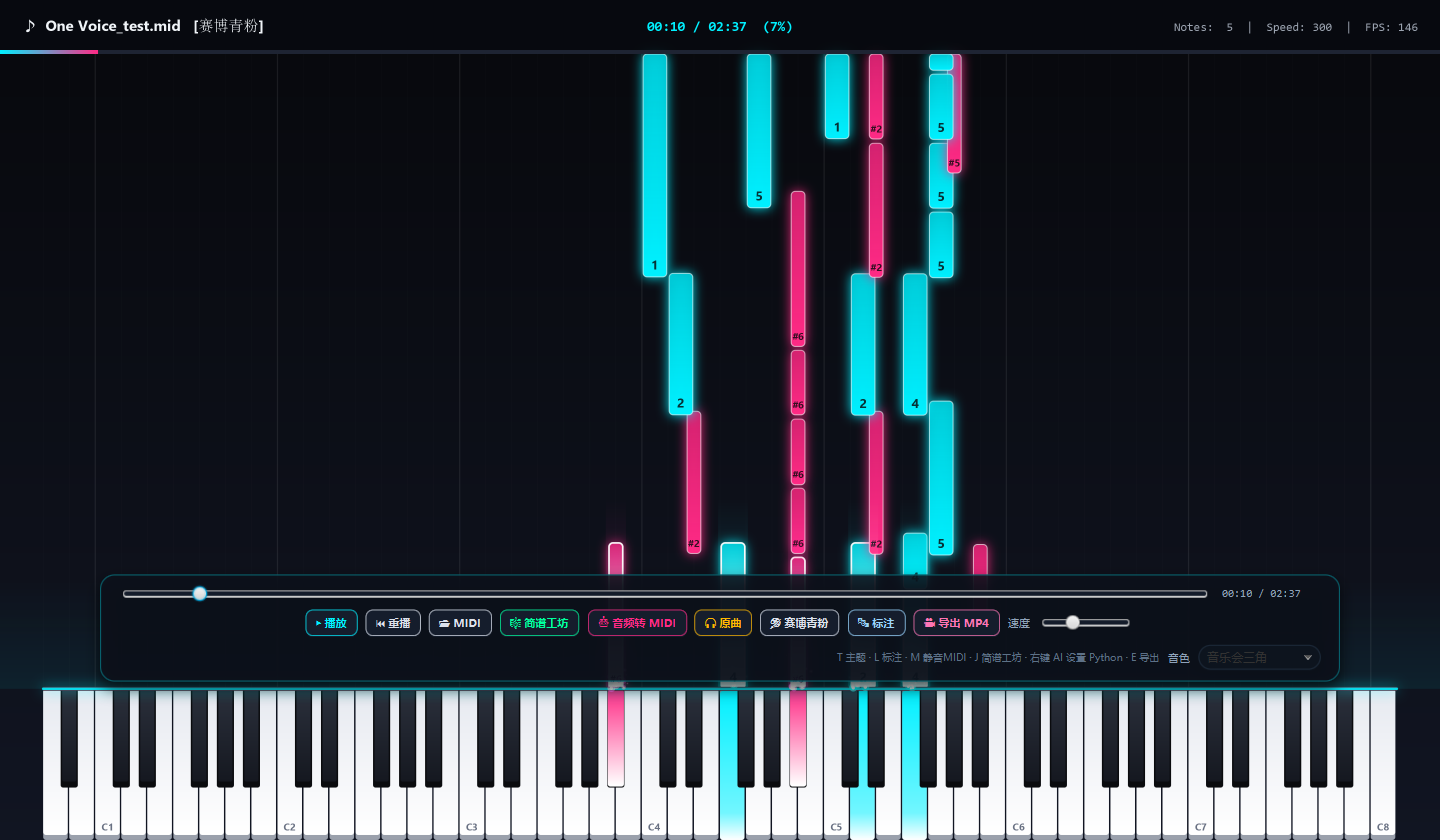
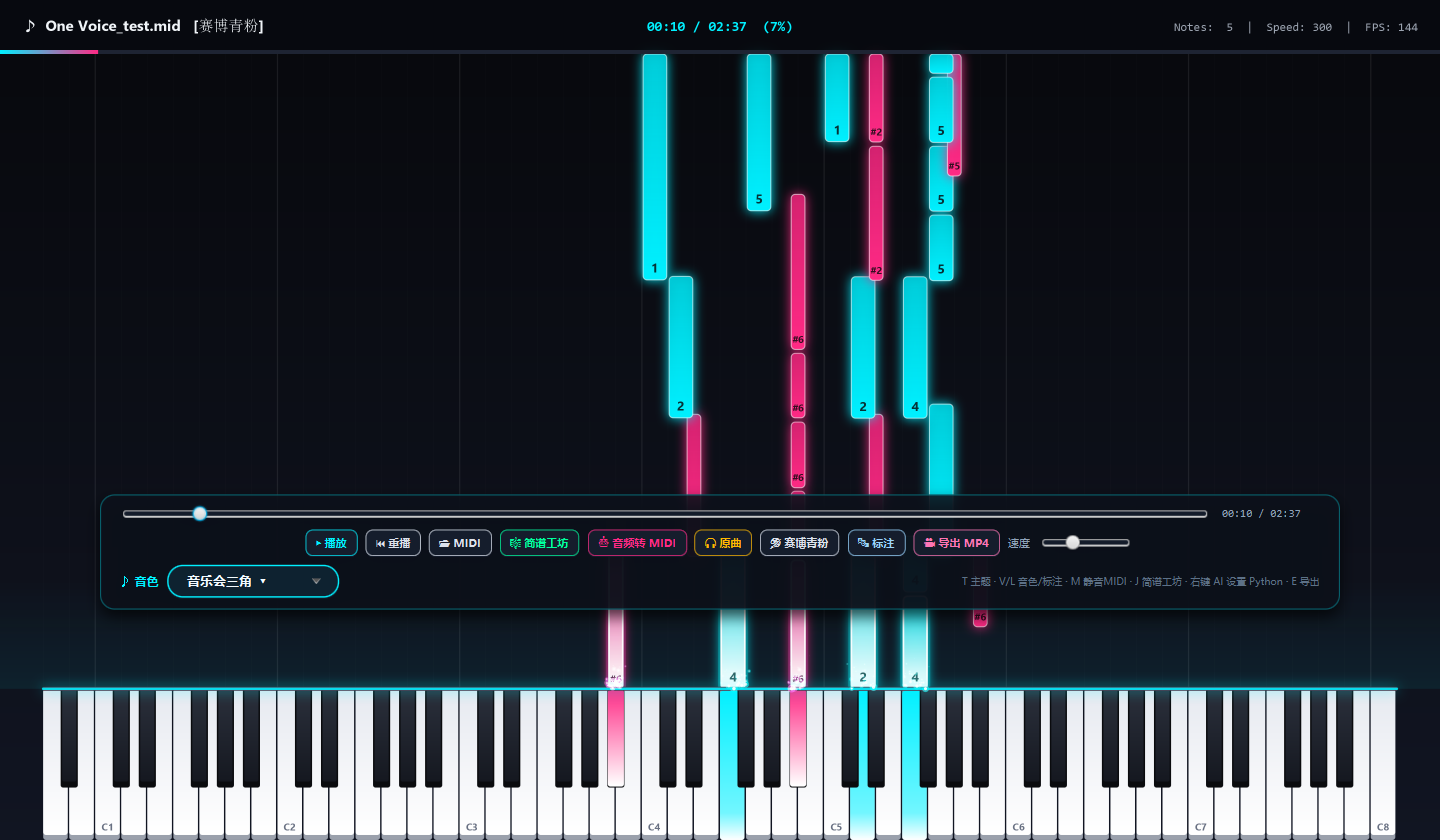
fix: distinguish sampled voices, dark voice popup and clearer selector (1.3.1)

diff --git a/src/main/resources/voice.css b/src/main/resources/voice.css
@@ -1,0 +1,20 @@
+.combo-box-popup .list-view {
+    -fx-background-color: #0B1622;
+    -fx-border-color: #00F0FF;
+    -fx-border-width: 1;
+    -fx-background-radius: 8;
+    -fx-padding: 4;
+}
+
+.combo-box-popup .list-cell {
+    -fx-background-color: #0B1622;
+    -fx-text-fill: #F2FBFF;
+    -fx-font-size: 13px;
+    -fx-padding: 8 14 8 14;
+}
+
+.combo-box-popup .list-cell:hover,
+.combo-box-popup .list-cell:filled:selected {
+    -fx-background-color: #12384C;
+    -fx-text-fill: #FFFFFF;
+}

diff --git a/src/main/java/com/piano/waterfall/App.java b/src/main/java/com/piano/waterfall/App.java
@@ -28,6 +28,8 @@ import javafx.scene.control.ButtonType;
 import javafx.scene.control.ComboBox;
 import javafx.scene.control.ContextMenu;
 import javafx.scene.control.Label;
+import javafx.scene.control.ListCell;
+import javafx.scene.control.Tooltip;
 import javafx.scene.control.MenuItem;
 import javafx.scene.control.TextInputDialog;
 import javafx.scene.control.Slider;
@@ -138,11 +140,15 @@ public class App extends Application {
 
         dock = buildFloatingDock();
         StackPane.setAlignment(dock, Pos.BOTTOM_CENTER);
-        StackPane.setMargin(dock, new Insets(0, 40, 158, 40));
+        StackPane.setMargin(dock, new Insets(0, 40, 230, 40));
 
         root = new StackPane(canvas, dock);
         root.setStyle("-fx-background-color: #07090E;");
         Scene scene = new Scene(root, width, height, Color.web("#07090E"));
+        var appCss = App.class.getResource("/voice.css");
+        if (appCss != null) {
+            scene.getStylesheets().add(appCss.toExternalForm());
+        }
 
         canvas.widthProperty().bind(scene.widthProperty());
         canvas.heightProperty().bind(scene.heightProperty());
@@ -321,13 +327,24 @@ public class App extends Application {
         speedSlider.valueProperty().addListener((obs, oldValue, newValue) ->
                 renderer.setFallSpeed(newValue.doubleValue()));
 
-        Label voiceLabel = new Label("音色");
-        voiceLabel.setStyle("-fx-text-fill: #8FA3BA; -fx-font-size: 11px;");
+        Label voiceLabel = new Label("♪ 音色");
+        voiceLabel.setStyle("-fx-text-fill: #00F0FF; -fx-font-size: 12px; -fx-font-weight: bold;");
         voiceCombo = new ComboBox<>(FXCollections.observableArrayList(PianoVoice.values()));
         voiceCombo.setValue(PianoVoice.GRAND);
-        voiceCombo.setPrefWidth(122);
-        voiceCombo.setStyle("-fx-background-color: #0D141E; -fx-text-fill: #DCE2EC;"
-                + " -fx-border-color: #1D2A3A; -fx-border-radius: 12; -fx-background-radius: 12;");
+        voiceCombo.setPrefWidth(172);
+        voiceCombo.setVisibleRowCount(4);
+        voiceCombo.setPrefHeight(32);
+        voiceCombo.setStyle("-fx-background-color: #0E2230; -fx-text-fill: #EAF6FF;"
+                + " -fx-border-color: #00F0FF; -fx-border-width: 1.4;"
+                + " -fx-border-radius: 15; -fx-background-radius: 15;"
+                + " -fx-font-size: 13px; -fx-font-weight: bold; -fx-padding: 2 8 2 10;");
+        var voiceCss = App.class.getResource("/voice.css");
+        if (voiceCss != null) {
+            voiceCombo.getStylesheets().add(voiceCss.toExternalForm());
+        }
+        voiceCombo.setButtonCell(voiceCell(true));
+        voiceCombo.setCellFactory(list -> voiceCell(false));
+        voiceCombo.setTooltip(new Tooltip("切换钢琴音色（后台采样渲染）"));
         voiceCombo.setOnAction(event -> renderSampledPiano());
 
         FlowPane controls = new FlowPane(8, 7);
@@ -336,12 +353,12 @@ public class App extends Application {
                 aiButton, audioButton, themeButton, labelButton, exportButton,
                 speedLabel, speedSlider);
 
-        Label hintLabel = new Label("T 主题 · L 标注 · M 静音MIDI · J 简谱工坊 · 右键 AI 设置 Python · E 导出");
+        Label hintLabel = new Label("T 主题 · V/L 音色/标注 · M 静音MIDI · J 简谱工坊 · 右键 AI 设置 Python · E 导出");
         hintLabel.setStyle("-fx-text-fill: #5E7188; -fx-font-size: 10px;");
 
         Region footerSpacer = new Region();
-        HBox footer = new HBox(8, footerSpacer, hintLabel, voiceLabel, voiceCombo);
-        footer.setAlignment(Pos.CENTER_RIGHT);
+        HBox footer = new HBox(8, voiceLabel, voiceCombo, footerSpacer, hintLabel);
+        footer.setAlignment(Pos.CENTER_LEFT);
         HBox.setHgrow(footerSpacer, Priority.ALWAYS);
 
         dockBox.getChildren().addAll(progressRow, controls, footer);
@@ -370,6 +387,21 @@ public class App extends Application {
         });
         scene.setOnMouseMoved(this::handleMouseMoved);
         idleTimer.playFromStart();
+    }
+
+    private ListCell<PianoVoice> voiceCell(boolean withArrow) {
+        return new ListCell<>() {
+            @Override
+            protected void updateItem(PianoVoice item, boolean empty) {
+                super.updateItem(item, empty);
+                setText(null);
+                Label label = new Label(empty || item == null
+                        ? "" : item.label() + (withArrow ? "  ▾" : ""));
+                label.setStyle("-fx-text-fill: #F2FBFF; -fx-font-size: 13px;"
+                        + " -fx-font-weight: bold; -fx-background-color: transparent;");
+                setGraphic(label);
+            }
+        };
     }
 
     private void handleMouseMoved(MouseEvent event) {
@@ -580,6 +612,7 @@ public class App extends Application {
                 refreshThemeButton();
             }
             case L -> renderer.toggleNoteLabels();
+            case V -> voiceCombo.getSelectionModel().selectNext();
             case M -> audioEngine.toggleMidiMute();
             case O -> chooseMidiFile();
             case J -> JianpuStudioDialog.show(stage,

diff --git a/src/main/java/com/piano/waterfall/midi/PianoVoice.java b/src/main/java/com/piano/waterfall/midi/PianoVoice.java
@@ -5,11 +5,11 @@ package com.piano.waterfall.midi;
  */
 public enum PianoVoice {
 
-    GRAND("音乐会三角", 18_000, 25, 1.00, 1.00, 0.06),
-    BRIGHT("明亮流行", 20_000, 350, 0.95, 1.15, 0.04),
-    FELT("毛毡柔音", 1_700, 20, 1.10, 0.85, 0.14),
-    UPRIGHT("复古立式", 4_800, 60, 1.05, 1.05, 0.10),
-    ROOM("音乐厅", 12_000, 25, 0.95, 1.00, 0.30);
+    GRAND("音乐会三角", 16_000, 25, 1.00, 1.00, 0.06),
+    BRIGHT("明亮流行", 20_000, 650, 0.92, 1.60, 0.04),
+    FELT("毛毡柔音", 900, 20, 0.82, 0.80, 0.20),
+    UPRIGHT("复古立式", 3_200, 95, 1.05, 1.35, 0.10),
+    ROOM("音乐厅", 8_000, 25, 0.95, 0.95, 0.55);
 
     private final String label;
     private final double lowpassHz;

diff --git a/src/main/java/com/piano/waterfall/midi/SampledPianoEngine.java b/src/main/java/com/piano/waterfall/midi/SampledPianoEngine.java
@@ -315,7 +315,7 @@ public final class SampledPianoEngine {
             hash = 31 * hash + cacheKey.charAt(i);
         }
         return directory.resolve("midi-" + Integer.toHexString(hash)
-                + "-" + voice.name().toLowerCase() + ".wav").toFile();
+                + "-" + voice.name().toLowerCase() + "-v3.wav").toFile();
     }
 
     private record Sample(float[] data) {
